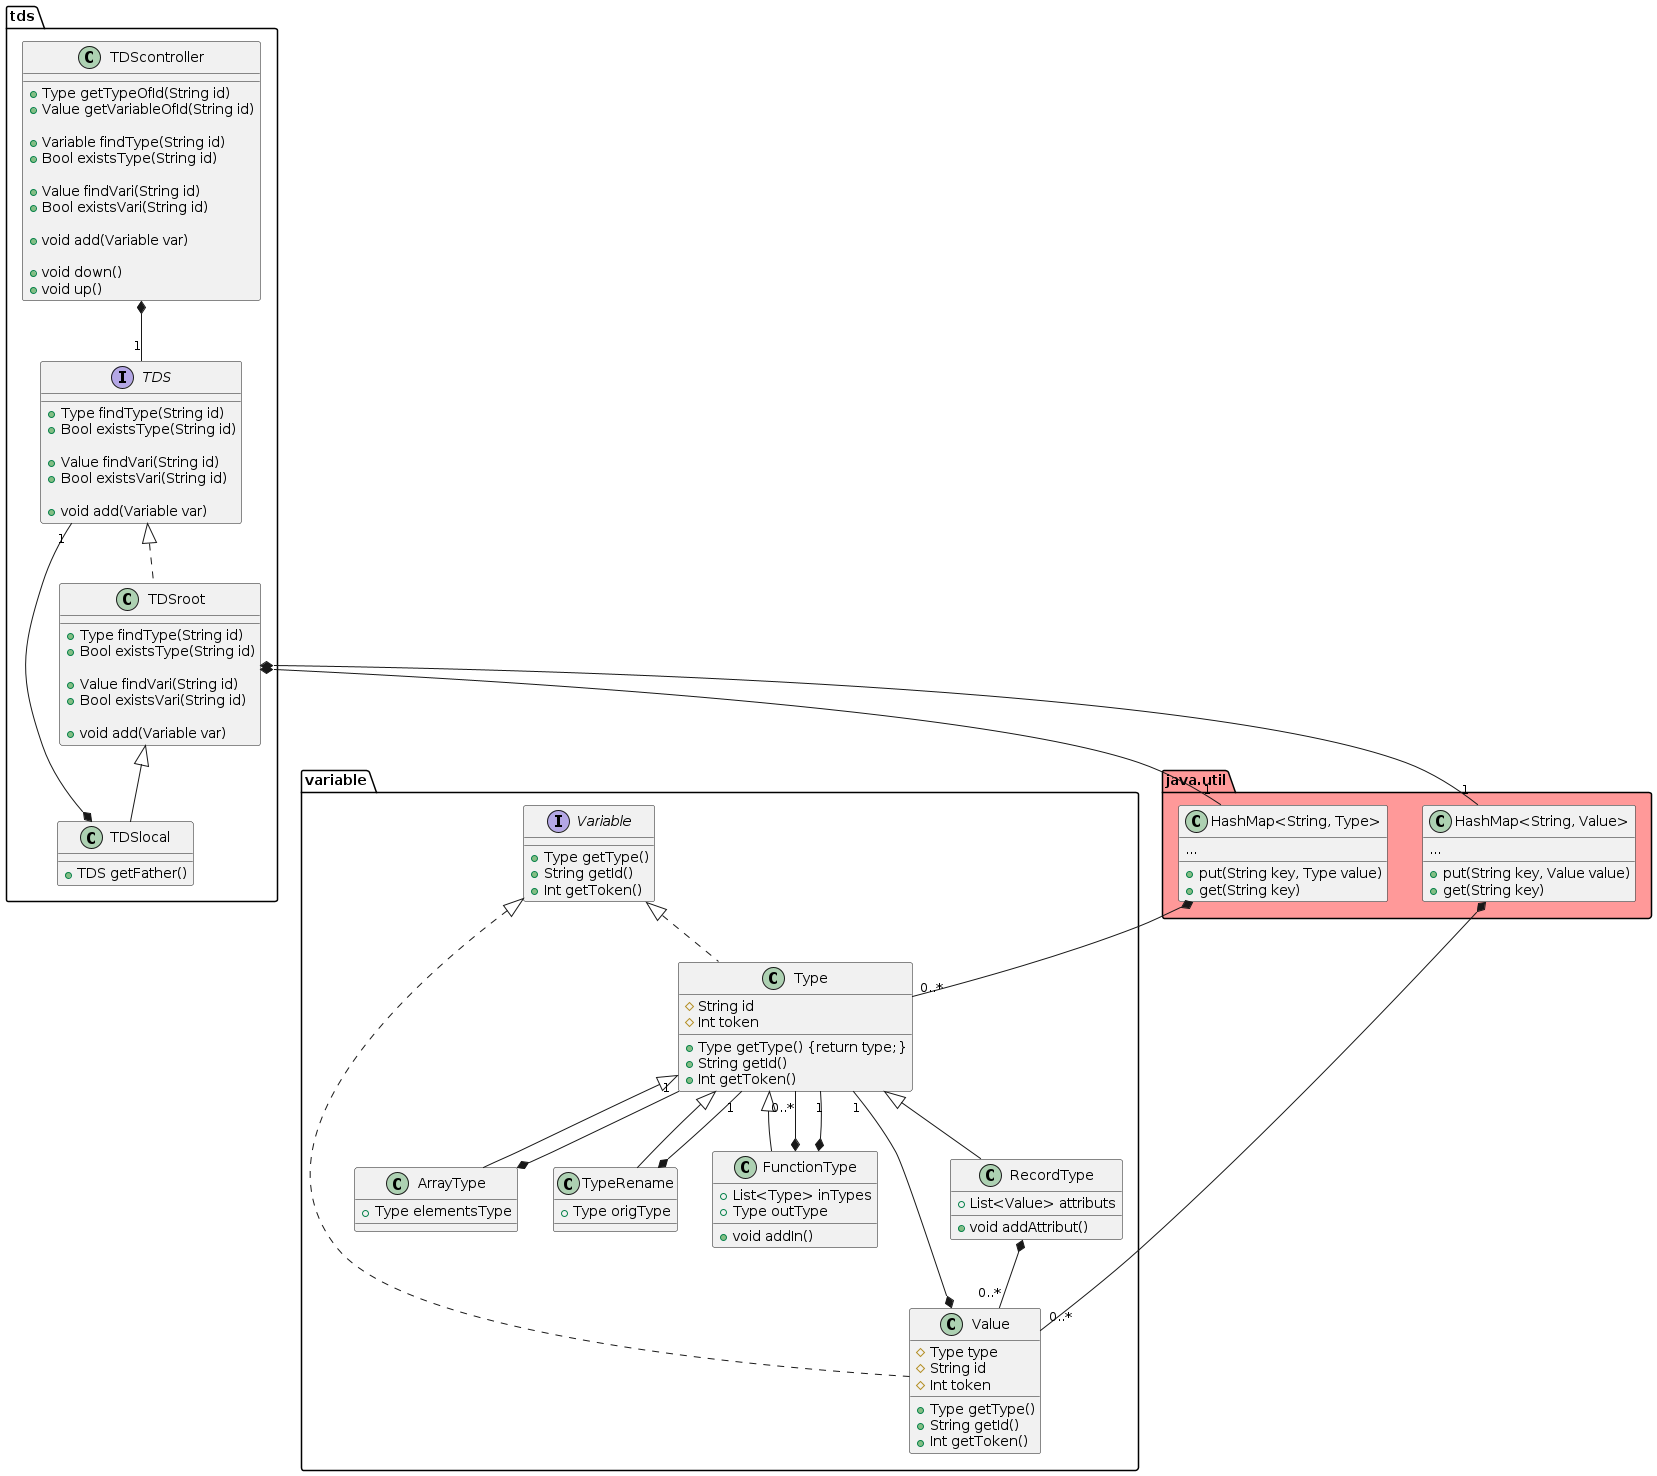
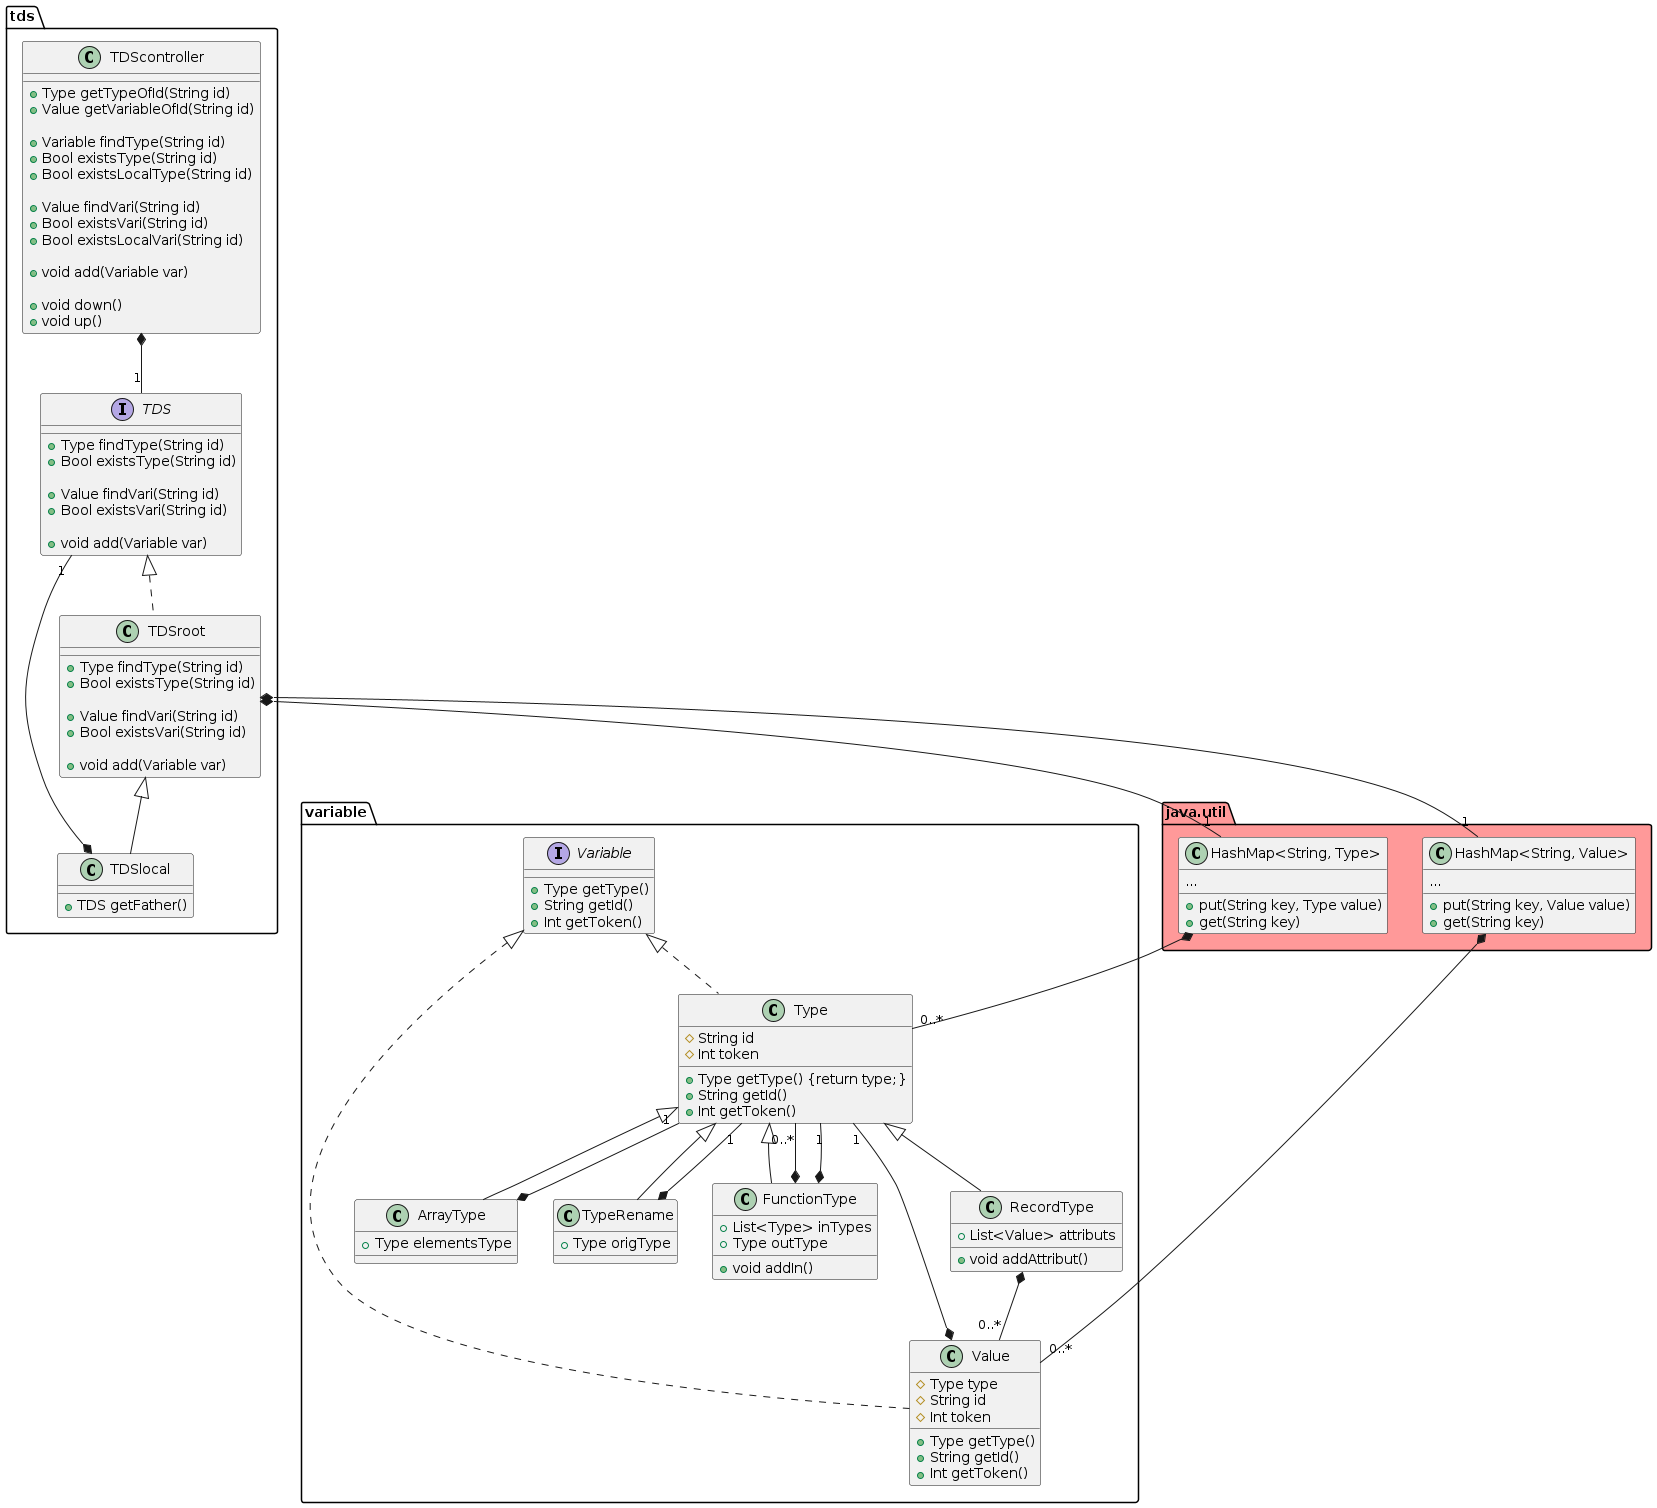
[EDIT] Ajout d'une méthode à la classe TDScontroller

diff --git a/AntlrMavenProject/chaoscompiler/src/main/java/eu/tn/chaoscompiler/tdstool/tds/TDScontroller.java b/AntlrMavenProject/chaoscompiler/src/main/java/eu/tn/chaoscompiler/tdstool/tds/TDScontroller.java
@@ -46,6 +46,10 @@ public class TDScontroller {
         }
     }
 
+    public Boolean existsLocalType(String id) {
+        return this.tds.existsType(id);
+    }
+
     public Value getVariableOfId(String id) {
         Value res = findVari(id);
         if (res == null) {
@@ -74,6 +78,10 @@ public class TDScontroller {
         } else {
             return this.tds.existsVari(id);
         }
+    }
+
+    public Boolean existsLocalVari(String id) {
+        return this.tds.existsVari(id);
     }
 
     public void add(Variable var) {
